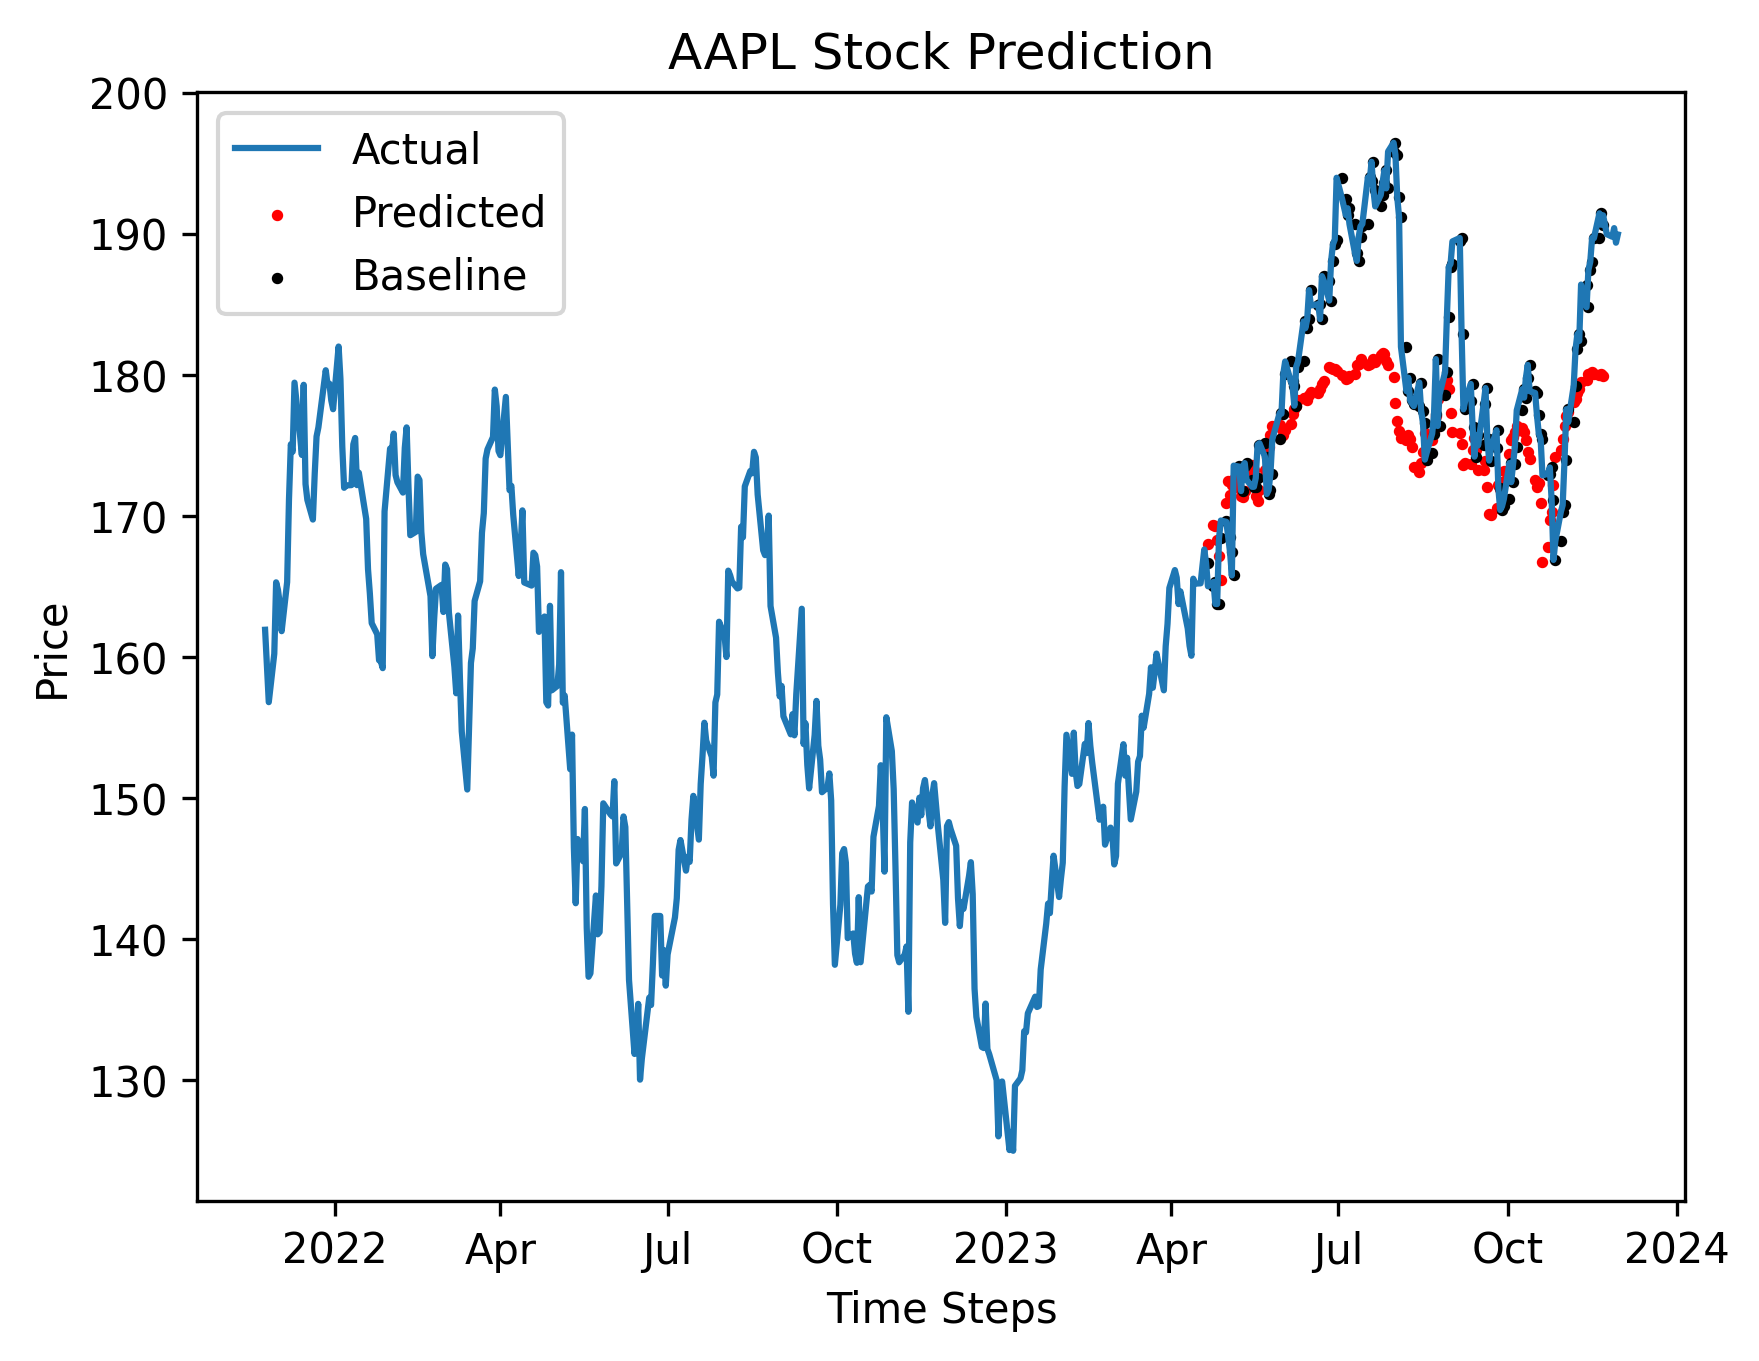
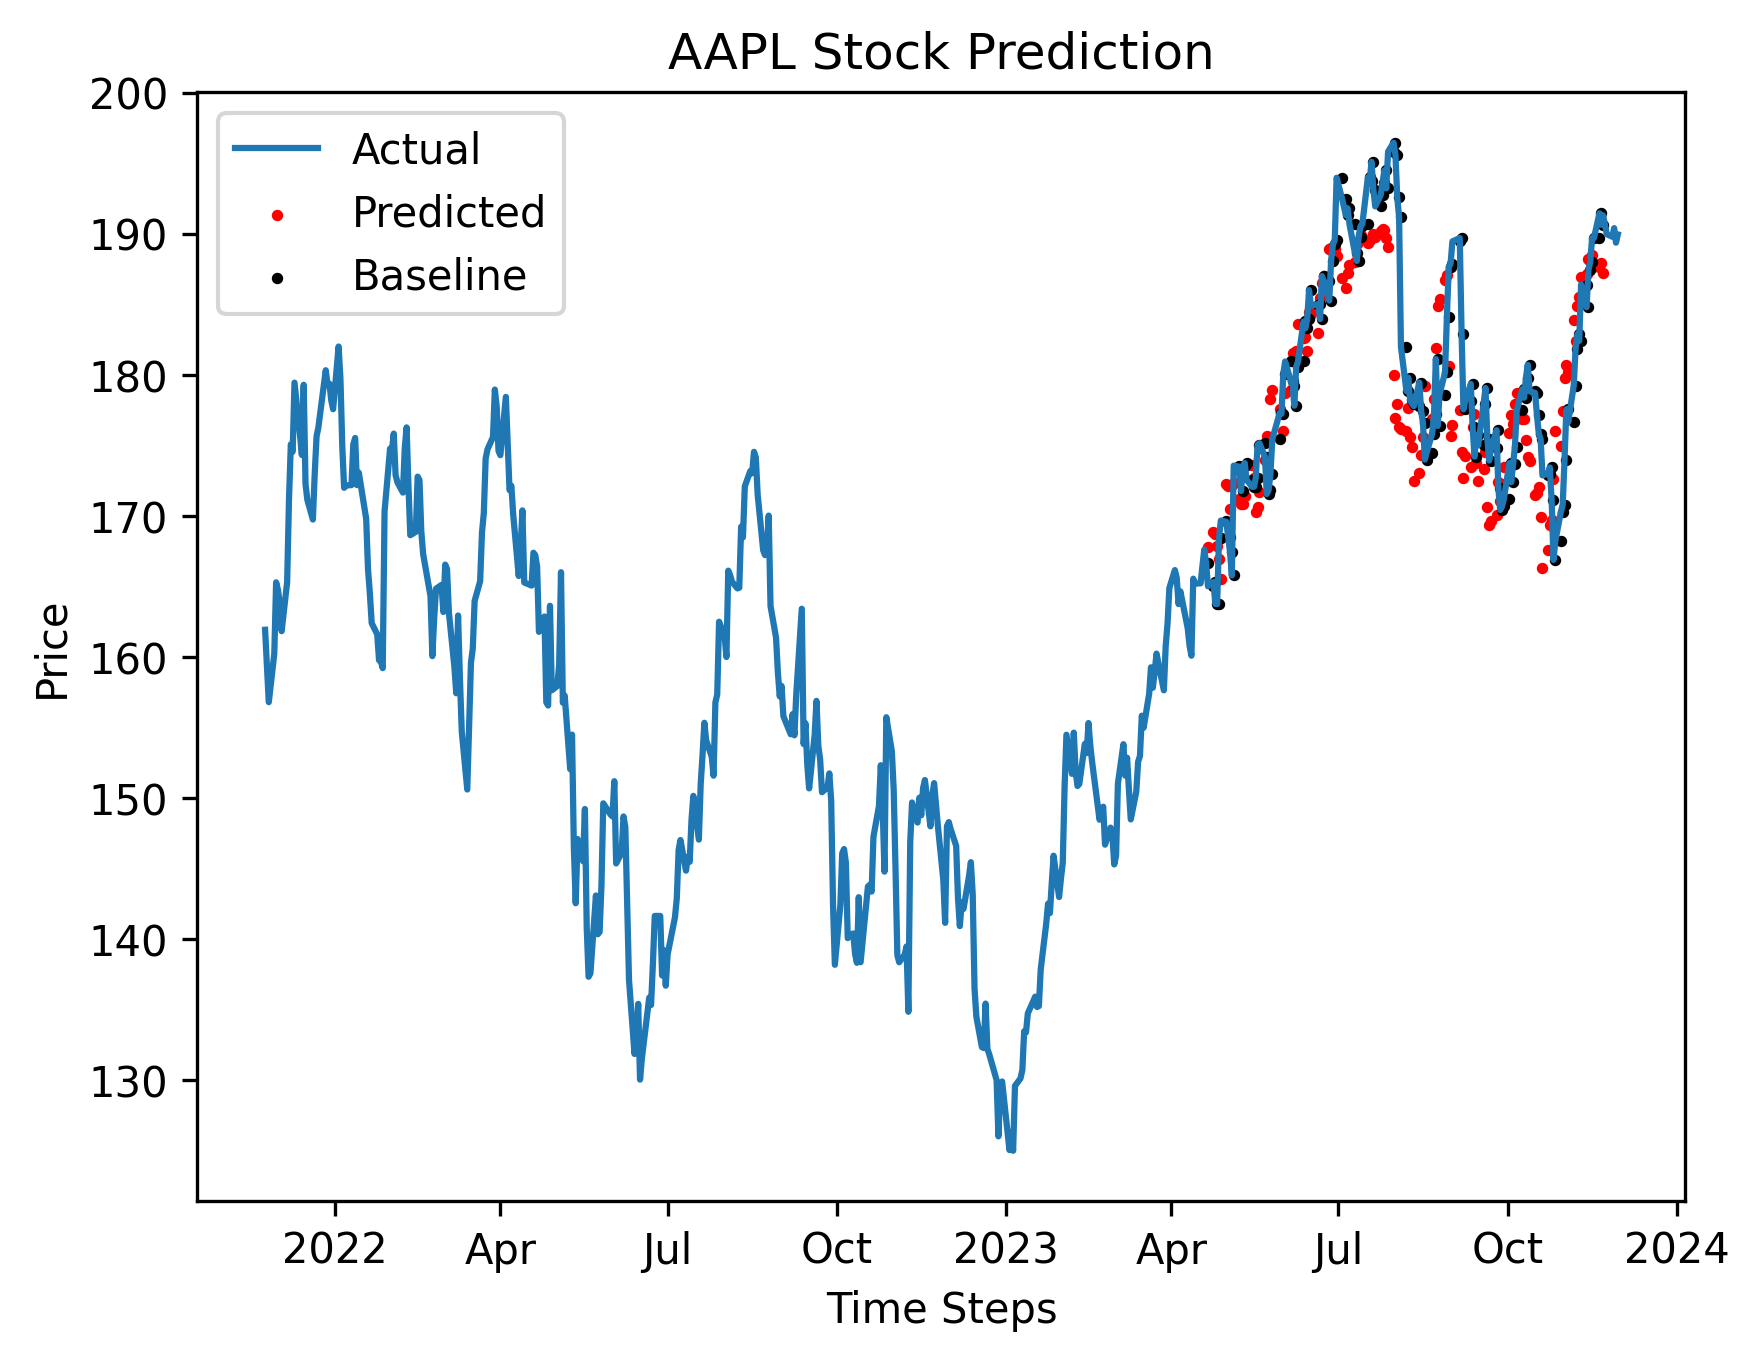
new plots

diff --git a/src/utils/train.py b/src/utils/train.py
@@ -90,6 +90,7 @@ def test_model(model, test_loader, loss_function, scaler):
     model.eval()  # Set the model to evaluation mode
     test_loss = 0
     predictions = []
+
     with torch.no_grad():  # No need to track gradients during testing
         for X_batch, y_batch in test_loader:
             output = model(X_batch)
@@ -109,7 +110,7 @@ def test_model(model, test_loader, loss_function, scaler):
 
     avg_test_loss = test_loss / len(test_loader)
     print(f"Test Loss: {avg_test_loss:.4f}")
-    return denormalized_predictions
+    return denormalized_predictions, avg_test_loss
 
 
 n_epochs = 20
@@ -137,6 +138,9 @@ for stock in best_stocks:
     # Load the entire dataset (x and y values)
     data = pd.read_csv(data_path)
     data['Time'] = pd.to_datetime(data['Time'])  # Convert the 'Time' column to datetime objects
+
+    # Convert 'Time' to the format matplotlib requires
+    x_values = mdates.date2num(data['Time'].values)
     y_values = data['Close'].values
 
     # Calculate the starting index for test data
